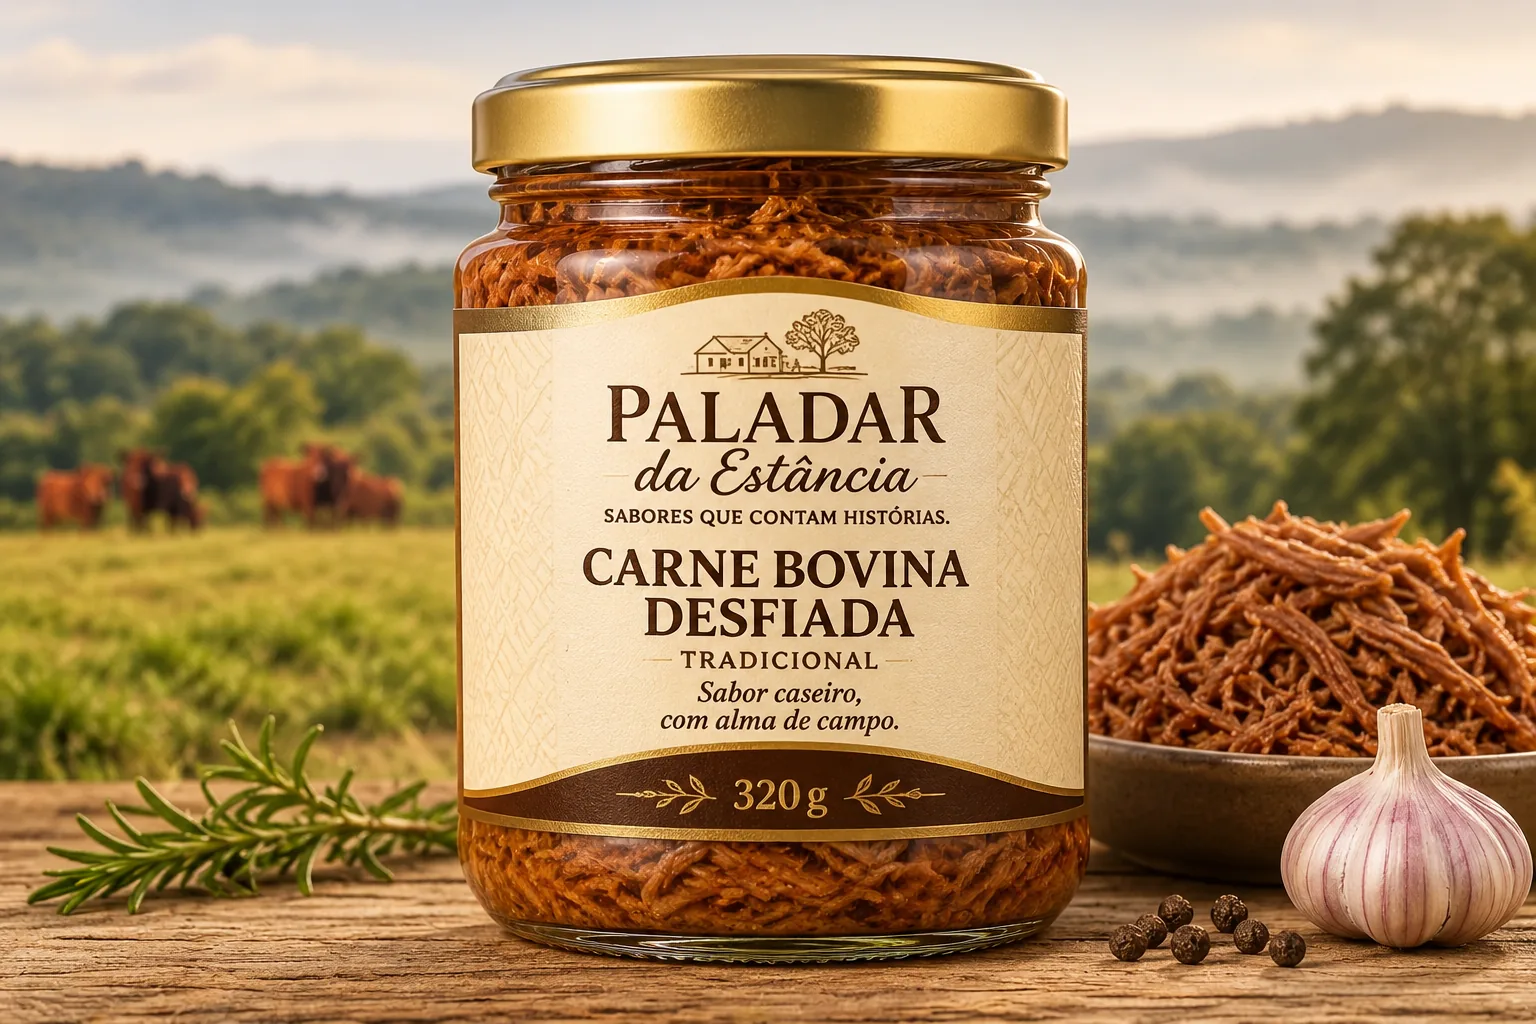
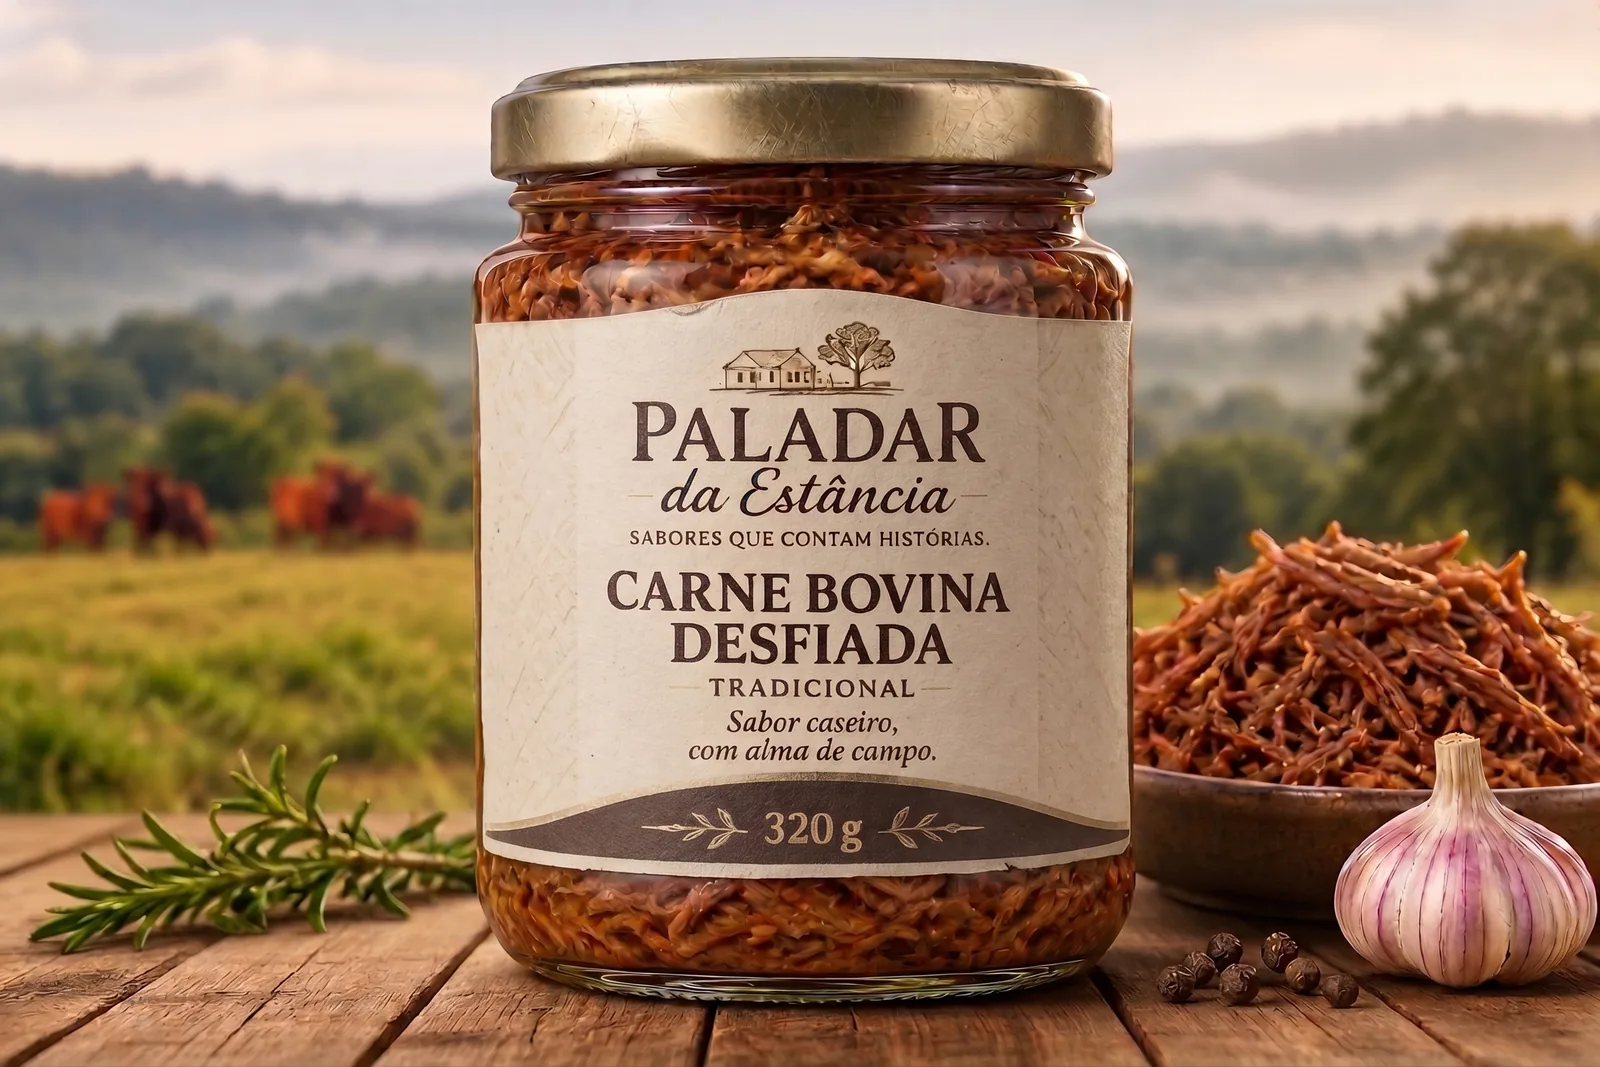
Nova foto do vidro com rótulo
Claude-Session: https://claude.ai/code/session_01As74gqM53w2W29UGo9M3Nb

diff --git a/index.html b/index.html
@@ -70,7 +70,7 @@
           </div>
           <button class="abertura__foto" type="button" data-trocar-foto aria-label="Trocar a foto de destaque">
             <img class="ativa" src="assets/fotos/carne-desfiada.webp" alt="Tigela de carne bovina desfiada ao molho sobre mesa de madeira" width="1216" height="896" fetchpriority="high">
-            <img class="foto--produto" src="assets/fotos/pote-rotulo.webp" alt="Vidro de 320 g da Carne Bovina Desfiada Paladar da Estância com o rótulo, sobre mesa de madeira" width="1536" height="1024">
+            <img class="foto--produto" src="assets/fotos/pote-rotulo.webp" alt="Vidro de 320 g da Carne Bovina Desfiada Paladar da Estância com o rótulo, sobre mesa de madeira" width="1600" height="1067">
             <span class="abertura__troca" aria-live="polite">Trocar foto (1 de 2)</span>
           </button>
         </div>
